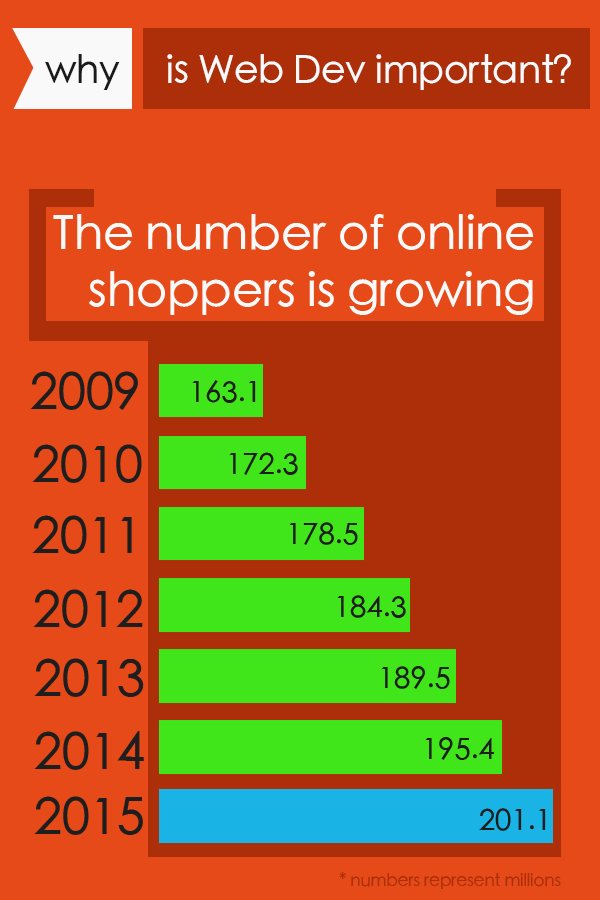
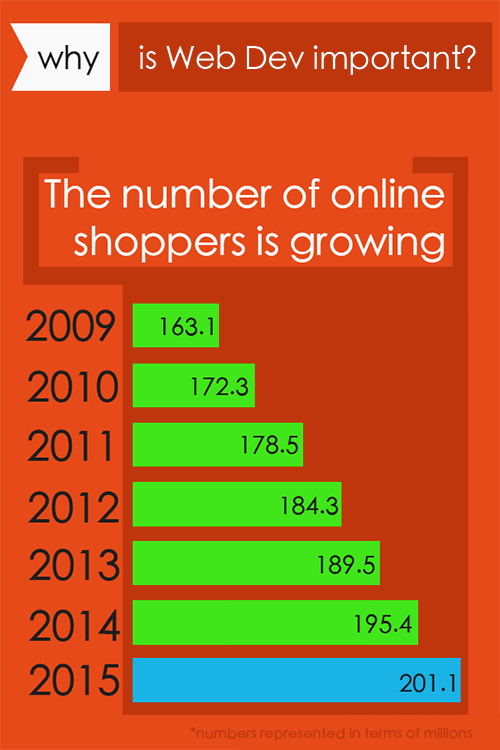
bkjblk

diff --git a/main.css b/main.css
@@ -118,16 +118,23 @@ ul{
     padding-left: 50px;
     padding-right: 50px;
     text-align: center;
-    background-image: url('background2.jpg');
+    /*background-image: url('background2.jpg');
     background-position: center right;
     background-size: cover;
-    background-repeat: repeat;
+    background-repeat: repeat;*/
+  }
+  .whyimg{
+    width: 1000px;
+    margin-left: auto;
+    margin-right: auto;
   }
 .whyWebDev{
     display: inline;
     text-align: center;
     margin: 0px;
     padding: 0px;
+    float: left;
+    width: 499px;
 }
 
 
@@ -139,16 +146,24 @@ ul{
 .languageContent{
     margin-top: 75px;
     margin-bottom: 50px;
+    text-align: center;
 }
 .examples{
-    background-image: url('background.jpg');
+    /*background-image: url('background.jpg');
   background-position: center right;
   background-size: cover;
-  background-repeat: repeat;
-  position: absolute;
+  background-repeat: repeat;*/
   text-align: center;
+  margin-left: auto;
+  margin-right: auto;
+  width: 1000px;
 }
-
+.ex{
+    width: 499px;
+    margin: none;
+    padding: none;
+    float: left;
+}
 /*///////////////////////////////////////////////////////////////////////////////////////////
 /////////////////////////////           tools content         ///////////////////////////////
 ///////////////////////////////////////////////////////////////////////////////////////////*/
@@ -161,10 +176,10 @@ ul{
     padding-left: 50px;
     padding-right: 50px;
     text-align: center;
-    background-image: url('background2.jpg');
+    /*background-image: url('background2.jpg');
     background-position: center right;
     background-size: cover;
-    background-repeat: repeat;
+    background-repeat: repeat;*/
   }
 .learnFree{
     display: inline;

diff --git a/languages.html b/languages.html
@@ -77,10 +77,10 @@
           <a href="#" class="arrow-next"><img src="next.png"></a>
         </div>
         <div class='examples'>
-            <img class='htmlEx' src='htmlEx.png'>
-            <img class='jqueryEx' src='jqueryEx.png'>
-            <img class='cssEx' src='cssEx.png'>
-            <img class='phpEx' src='phpEx.png'>
+            <img class='htmlEx ex'  style='margin: 0px; padding: 0px;' src='htmlEx.png'>
+            <img class='jqueryEx ex' style='margin: 0px; padding: 0px;' src='jqueryEx.png'>
+            <img class='cssEx ex' style='margin: 0px; padding: 0px;' src='cssEx.png'>
+            <img class='phpEx ex' style='margin: 0px; padding: 0px;' src='phpEx.png'>
         </div>  
     </div>
 </body>

diff --git a/why.html b/why.html
@@ -29,8 +29,10 @@
         </ul>
     </div>
     <div class="whyContent">
-       <img class="whyWebDev" src='whyWebDev2.png'>
-        <img class="whyWebDev" src="whyWebDev.png">
+        <div class='whyimg'>
+            <img class="whyWebDev" src='whyWebDev2.png'>
+            <img class="whyWebDev" src="whyWebDev.png">
+        </div>
     </div>
 </body>
 </html>
